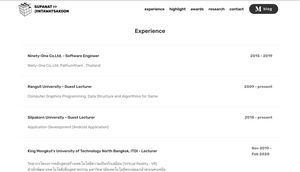
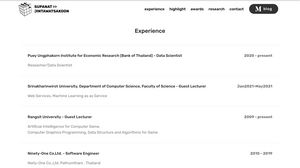
update info

diff --git a/highlight.html b/highlight.html
@@ -24,7 +24,45 @@
   
 </head>
 <body>
-  <section class="mbr-section content4 cid-s4lxfaF2QP" id="content4-2e">
+  <section class="menu cid-rUuBbmVczq" once="menu" id="menu2-11">
+
+    
+
+    <nav class="navbar navbar-expand beta-menu navbar-dropdown align-items-center navbar-fixed-top navbar-toggleable-sm">
+        <button class="navbar-toggler navbar-toggler-right" type="button" data-toggle="collapse" data-target="#navbarSupportedContent" aria-controls="navbarSupportedContent" aria-expanded="false" aria-label="Toggle navigation">
+            <div class="hamburger">
+                <span></span>
+                <span></span>
+                <span></span>
+                <span></span>
+            </div>
+        </button>
+        <div class="menu-logo">
+            <div class="navbar-brand">
+                <span class="navbar-logo">
+                    <a href="https://supanat.github.io/">
+                        <img src="assets/images/mbr-1-122x139.png" alt="Mobirise" title="" style="height: 3.8rem;">
+                    </a>
+                </span>
+                <span class="navbar-caption-wrap"><a class="navbar-caption text-black display-4" href="index.html">
+                        SUPANAT &gt;&gt;<br>JINTAWATSAKOON</a></span>
+            </div>
+        </div>
+        <div class="collapse navbar-collapse" id="navbarSupportedContent">
+            <ul class="navbar-nav nav-dropdown" data-app-modern-menu="true"><li class="nav-item">
+                    <a class="nav-link link text-black display-4" href="experience.html">
+                        experience</a>
+                </li><li class="nav-item"><a class="nav-link link text-black display-4" href="highlight.html">
+                        highlight</a></li><li class="nav-item"><a class="nav-link link text-black display-4" href="awards.html">
+                        awards</a></li><li class="nav-item"><a class="nav-link link text-black display-4" href="index.html">
+                        research</a></li><li class="nav-item"><a class="nav-link link text-black display-4" href="contact.html">
+                        contact</a></li></ul>
+            <div class="navbar-buttons mbr-section-btn"><a class="btn btn-sm btn-black display-4" href="https://medium.com/@SupanatJ" target="_blank"><span class="socicon socicon-medium mbr-iconfont mbr-iconfont-btn"></span>blog</a></div>
+        </div>
+    </nav>
+</section>
+
+<section class="engine"><a href="https://mobirise.info/n">free simple site templates</a></section><section class="mbr-section content4 cid-s4lxfaF2QP" id="content4-2e">
 
     
 
@@ -39,7 +77,7 @@
     </div>
 </section>
 
-<section class="engine"><a href="https://mobirise.info/c">web builder</a></section><section class="header3 cid-s5KJY6WBpR" id="header3-2o">
+<section class="header3 cid-s5KJY6WBpR" id="header3-2o">
 
     
 
@@ -181,42 +219,27 @@
     </div>
 </section>
 
-<section class="menu cid-rUuBbmVczq" once="menu" id="menu2-11">
+<section class="header7 cid-sARbBbnjNJ" id="header7-2p">
 
     
 
-    <nav class="navbar navbar-expand beta-menu navbar-dropdown align-items-center navbar-fixed-top navbar-toggleable-sm">
-        <button class="navbar-toggler navbar-toggler-right" type="button" data-toggle="collapse" data-target="#navbarSupportedContent" aria-controls="navbarSupportedContent" aria-expanded="false" aria-label="Toggle navigation">
-            <div class="hamburger">
-                <span></span>
-                <span></span>
-                <span></span>
-                <span></span>
+    
+
+    <div class="container">
+        <div class="media-container-row">
+
+            <div class="media-content align-right">
+                <h1 class="mbr-section-title mbr-white pb-3 mbr-fonts-style display-5">Farther's Farm - PC GAME</h1>
+                <div class="mbr-section-text mbr-white pb-3">
+                    <p class="mbr-text mbr-fonts-style display-7">True ปลูกปัญญา, Rangsit University<br><strong>Technique and tools:</strong> C#, XNA, 3Ds Max, Photoshop<br></p>
+                </div>
+                
             </div>
-        </button>
-        <div class="menu-logo">
-            <div class="navbar-brand">
-                <span class="navbar-logo">
-                    <a href="https://supanat.github.io/">
-                        <img src="assets/images/mbr-1-122x139.png" alt="Mobirise" title="" style="height: 3.8rem;">
-                    </a>
-                </span>
-                <span class="navbar-caption-wrap"><a class="navbar-caption text-black display-4" href="index.html">
-                        SUPANAT &gt;&gt;<br>JINTAWATSAKOON</a></span>
-            </div>
+
+            <div class="mbr-figure" style="width: 60%;"><iframe class="mbr-embedded-video" src="https://www.youtube.com/embed/qP_KiMVJ0LQ?rel=0&amp;amp;showinfo=0&amp;autoplay=0&amp;loop=0" width="1280" height="720" frameborder="0" allowfullscreen></iframe></div>
+
         </div>
-        <div class="collapse navbar-collapse" id="navbarSupportedContent">
-            <ul class="navbar-nav nav-dropdown" data-app-modern-menu="true"><li class="nav-item">
-                    <a class="nav-link link text-black display-4" href="experience.html">
-                        experience</a>
-                </li><li class="nav-item"><a class="nav-link link text-black display-4" href="highlight.html">
-                        highlight</a></li><li class="nav-item"><a class="nav-link link text-black display-4" href="awards.html">
-                        awards</a></li><li class="nav-item"><a class="nav-link link text-black display-4" href="index.html">
-                        research</a></li><li class="nav-item"><a class="nav-link link text-black display-4" href="contact.html">
-                        contact</a></li></ul>
-            <div class="navbar-buttons mbr-section-btn"><a class="btn btn-sm btn-black display-4" href="https://medium.com/@SupanatJ" target="_blank"><span class="socicon socicon-medium mbr-iconfont mbr-iconfont-btn"></span>blog</a></div>
-        </div>
-    </nav>
+    </div>
 </section>
 
 <section once="footers" class="cid-s4iHwpjIfI" id="footer7-20">

diff --git a/experience.html b/experience.html
@@ -24,45 +24,7 @@
   
 </head>
 <body>
-  <section class="menu cid-rTSQo51A0q" once="menu" id="menu2-u">
-
-    
-
-    <nav class="navbar navbar-expand beta-menu navbar-dropdown align-items-center navbar-fixed-top navbar-toggleable-sm">
-        <button class="navbar-toggler navbar-toggler-right" type="button" data-toggle="collapse" data-target="#navbarSupportedContent" aria-controls="navbarSupportedContent" aria-expanded="false" aria-label="Toggle navigation">
-            <div class="hamburger">
-                <span></span>
-                <span></span>
-                <span></span>
-                <span></span>
-            </div>
-        </button>
-        <div class="menu-logo">
-            <div class="navbar-brand">
-                <span class="navbar-logo">
-                    <a href="https://supanat.github.io/">
-                        <img src="assets/images/mbr-1-122x139.png" alt="Mobirise" title="" style="height: 3.8rem;">
-                    </a>
-                </span>
-                <span class="navbar-caption-wrap"><a class="navbar-caption text-black display-4" href="index.html">
-                        SUPANAT &gt;&gt;<br>JINTAWATSAKOON</a></span>
-            </div>
-        </div>
-        <div class="collapse navbar-collapse" id="navbarSupportedContent">
-            <ul class="navbar-nav nav-dropdown" data-app-modern-menu="true"><li class="nav-item">
-                    <a class="nav-link link text-black display-4" href="experience.html">
-                        experience</a>
-                </li><li class="nav-item"><a class="nav-link link text-black display-4" href="highlight.html">
-                        highlight</a></li><li class="nav-item"><a class="nav-link link text-black display-4" href="awards.html">
-                        awards</a></li><li class="nav-item"><a class="nav-link link text-black display-4" href="index.html">
-                        research</a></li><li class="nav-item"><a class="nav-link link text-black display-4" href="contact.html">
-                        contact</a></li></ul>
-            <div class="navbar-buttons mbr-section-btn"><a class="btn btn-sm btn-black display-4" href="https://medium.com/@SupanatJ" target="_blank"><span class="socicon socicon-medium mbr-iconfont mbr-iconfont-btn"></span>blog</a></div>
-        </div>
-    </nav>
-</section>
-
-<section class="engine"><a href="https://mobirise.info/s">free bootstrap theme</a></section><section class="services5 cid-rTSzf8iAnn" id="services5-o">
+  <section class="services5 cid-rTSzf8iAnn" id="services5-o">
     <!---->
     
     <!---->
@@ -225,7 +187,7 @@
     </div>
 </section>
 
-<section class="cid-rTUIKc1kTU" id="image4-x">
+<section class="engine"><a href="https://mobirise.info/h">create your own web page</a></section><section class="cid-rTUIKc1kTU" id="image4-x">
     <!-- Block parameters controls (Blue "Gear" panel) -->
     
     <!-- End block parameters -->
@@ -241,6 +203,44 @@
                 </div>
             </div>
     </div>
+</section>
+
+<section class="menu cid-rTSQo51A0q" once="menu" id="menu2-u">
+
+    
+
+    <nav class="navbar navbar-expand beta-menu navbar-dropdown align-items-center navbar-fixed-top navbar-toggleable-sm">
+        <button class="navbar-toggler navbar-toggler-right" type="button" data-toggle="collapse" data-target="#navbarSupportedContent" aria-controls="navbarSupportedContent" aria-expanded="false" aria-label="Toggle navigation">
+            <div class="hamburger">
+                <span></span>
+                <span></span>
+                <span></span>
+                <span></span>
+            </div>
+        </button>
+        <div class="menu-logo">
+            <div class="navbar-brand">
+                <span class="navbar-logo">
+                    <a href="https://supanat.github.io/">
+                        <img src="assets/images/mbr-1-122x139.png" alt="Mobirise" title="" style="height: 3.8rem;">
+                    </a>
+                </span>
+                <span class="navbar-caption-wrap"><a class="navbar-caption text-black display-4" href="index.html">
+                        SUPANAT &gt;&gt;<br>JINTAWATSAKOON</a></span>
+            </div>
+        </div>
+        <div class="collapse navbar-collapse" id="navbarSupportedContent">
+            <ul class="navbar-nav nav-dropdown" data-app-modern-menu="true"><li class="nav-item">
+                    <a class="nav-link link text-black display-4" href="experience.html">
+                        experience</a>
+                </li><li class="nav-item"><a class="nav-link link text-black display-4" href="highlight.html">
+                        highlight</a></li><li class="nav-item"><a class="nav-link link text-black display-4" href="awards.html">
+                        awards</a></li><li class="nav-item"><a class="nav-link link text-black display-4" href="index.html">
+                        research</a></li><li class="nav-item"><a class="nav-link link text-black display-4" href="contact.html">
+                        contact</a></li></ul>
+            <div class="navbar-buttons mbr-section-btn"><a class="btn btn-sm btn-black display-4" href="https://medium.com/@SupanatJ" target="_blank"><span class="socicon socicon-medium mbr-iconfont mbr-iconfont-btn"></span>blog</a></div>
+        </div>
+    </nav>
 </section>
 
 <section once="footers" class="cid-s4iHwpjIfI" id="footer7-20">

diff --git a/index.html b/index.html
@@ -63,7 +63,7 @@
     </nav>
 </section>
 
-<section class="engine"><a href="https://mobirise.info/o">free portfolio website templates</a></section><section class="header6 cid-s4gaWQAUuQ mbr-fullscreen" data-bg-video="https://youtu.be/QOxRvIOgkRQ" id="header6-1h">
+<section class="engine"><a href="https://mobirise.info/c">website builder</a></section><section class="header6 cid-s4gaWQAUuQ mbr-fullscreen" data-bg-video="https://youtu.be/QOxRvIOgkRQ" id="header6-1h">
 
     
 
@@ -76,7 +76,7 @@
                 
                 <p class="mbr-text align-center pb-3 mbr-fonts-style display-5">Hello! I am <strong>Supanat Jintawatsakoon</strong>. <br></p>
                 <div class="mbr-section-btn align-center"><a class="btn btn-md btn-black display-4" href="highlight.html">SHOWREEL</a>
-                        <a class="btn btn-md btn-white-outline display-4" href="https://drive.google.com/file/d/1chTZ_2pBF7ysfRk7JtatTly-itIF-oh0/view?usp=sharing" target="_blank">CV</a></div>
+                        <a class="btn btn-md btn-white-outline display-4" href="https://drive.google.com/file/d/17awUm1BllrK36440SiXt4dvBQRQK9dub/view?usp=sharing" target="_blank">portfolio</a></div>
             </div>
         </div>
     </div>

diff --git a/assets/mobirise/css/mbr-additional.css b/assets/mobirise/css/mbr-additional.css
@@ -2888,6 +2888,30 @@ section.lazy-placeholder:after {
 .cid-rUuBbmVczq .dropdown-item:hover {
   color: #767676 !important;
 }
+.cid-sARbBbnjNJ {
+  padding-top: 15px;
+  padding-bottom: 30px;
+  background: linear-gradient(45deg, #ffffff, #ffffff);
+}
+@media (min-width: 992px) {
+  .cid-sARbBbnjNJ .mbr-figure {
+    padding-left: 4rem;
+  }
+}
+@media (max-width: 991px) {
+  .cid-sARbBbnjNJ .mbr-figure {
+    padding-top: 3rem;
+  }
+}
+.cid-sARbBbnjNJ .mbr-section-title {
+  color: #232323;
+  text-align: left;
+}
+.cid-sARbBbnjNJ .mbr-text,
+.cid-sARbBbnjNJ .mbr-section-btn {
+  color: #232323;
+  text-align: left;
+}
 .cid-s4iHwpjIfI {
   padding-top: 30px;
   padding-bottom: 30px;

diff --git a/contact.html b/contact.html
@@ -50,7 +50,7 @@
 
 </section>
 
-<section class="engine"><a href="https://mobirise.info/e">how to make a website for free</a></section><section class="mbr-section article content9 cid-s4qQHA6r81" id="content9-2l">
+<section class="engine"><a href="https://mobirise.info/q">responsive website templates</a></section><section class="mbr-section article content9 cid-s4qQHA6r81" id="content9-2l">
     
      
 

diff --git a/research.html b/research.html
@@ -62,7 +62,7 @@
     </nav>
 </section>
 
-<section class="engine"><a href="https://mobirise.info/g">build your own website for free</a></section><section class="mbr-section content4 cid-s4iHnLu2iH" id="content4-1z">
+<section class="engine"><a href="https://mobirise.info/c">free site builder</a></section><section class="mbr-section content4 cid-s4iHnLu2iH" id="content4-1z">
 
     
 

diff --git a/awards.html b/awards.html
@@ -117,7 +117,7 @@
     </div>
 </section>
 
-<section class="engine"><a href="https://mobirise.info/b">how to create your own website</a></section><section class="menu cid-rTSQo51A0q" once="menu" id="menu2-u">
+<section class="engine"><a href="https://mobirise.info/q">responsive website templates</a></section><section class="menu cid-rTSQo51A0q" once="menu" id="menu2-u">
 
     
 
